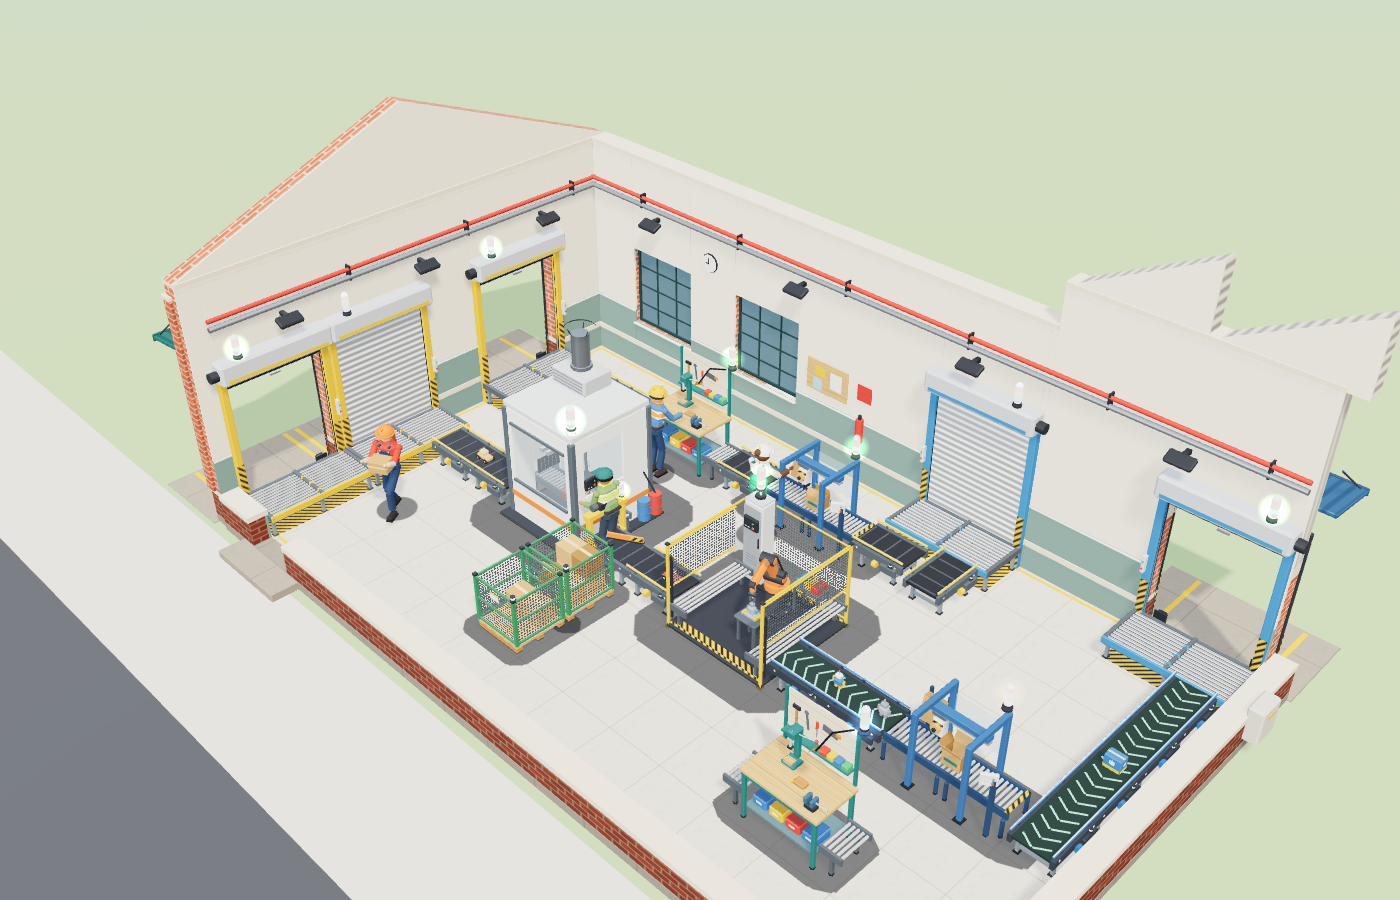
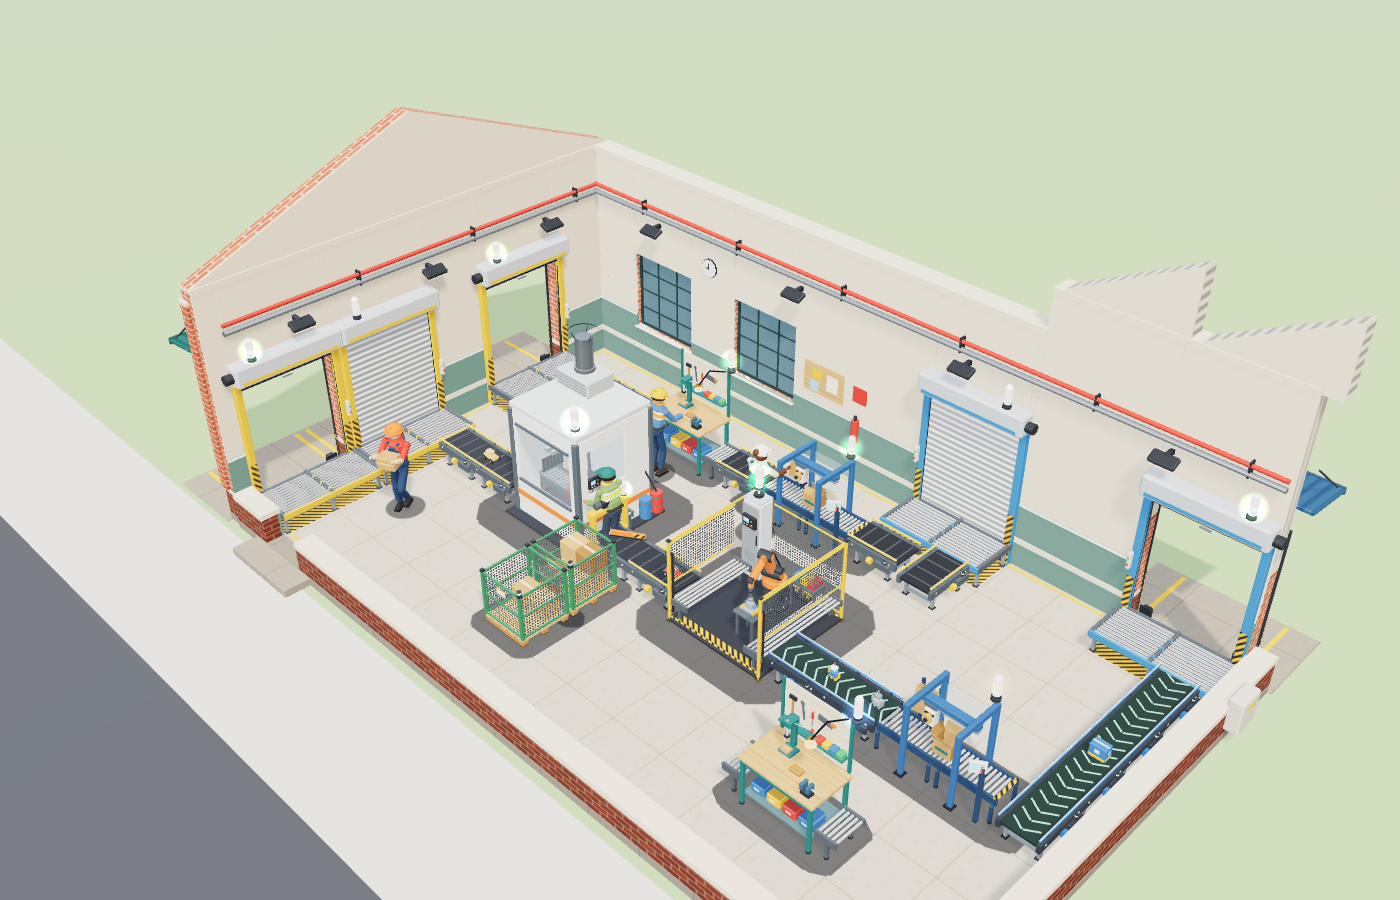
E2E evidence: phone-size (844x390) touch journey to first sale passes with 0 console errors
Claude-Session: https://claude.ai/code/session_01QUCVJJ8vSf1g5xenrdUj19

diff --git a/src/render/models/buildings/store.ts b/src/render/models/buildings/store.ts
@@ -20,8 +20,8 @@ const WALL = 0xf2b8a0; // coral plaster
 const TRIM = 0x2e7c78;
 const BOX = [PAL.yellow, PAL.red, PAL.blue, 0x3b2a6b];
 
-function shelfUnit(b: Builder, x: number, z: number, len: number, ry: number, double: boolean, seed: number): void {
-  b.push(x, 0, z, ry);
+function shelfUnit(b: Builder, x: number, z: number, len: number, ry: number, double: boolean, seed: number, y = 0): void {
+  b.push(x, y, z, ry);
   const d = double ? 0.6 : 0.4;
   b.span('satin', 0xf4f2ee, -len / 2, 0, -d / 2, len / 2, 0.12, d / 2, 0.01);
   b.span('satin', TRIM, -len / 2, 0.12, -0.03, len / 2, 1.65, 0.03, 0.006);
@@ -69,7 +69,7 @@ export function createToyStore(opts: ModelOptions = {}): ModelInstance {
   const doorU = -w / 2 + 1.5;
   const openings: Record<Side, Opening[]> = {
     S: [{ u: doorU, w: 1.2, y0: 0, y1: 2.4 }, { u: doorU + 0.9 + shopW / 2, w: shopW, y0: 0.45, y1: 2.55 }],
-    E: level >= 2 ? [{ u: h / 2 - 1.8, w: 2.4, y0: 0.45, y1: 2.55 }] : [{ u: 0, w: 1.4, y0: 1.0, y1: 2.4 }],
+    E: level >= 2 ? [{ u: -(h / 2 - 1.8), w: 2.4, y0: 0.45, y1: 2.55 }] : [{ u: 0, w: 1.4, y0: 1.0, y1: 2.4 }],
     N: [{ u: 0, w: 1.0, y0: 0, y1: 2.15 }],
     W: [],
   };
@@ -178,7 +178,8 @@ export function createToyStore(opts: ModelOptions = {}): ModelInstance {
   }
   // wall shelving along N and W
   shelfUnit(b, -w / 2 + 0.3, 0.6, Math.min(3.2, h - 2.4), Math.PI / 2, false, 7);
-  shelfUnit(b, w / 2 - 2.3, -h / 2 + 0.3, 3.0, Math.PI, false, 11);
+  const nLen = Math.min(3.0, w / 2 - 1.3);
+  shelfUnit(b, w / 2 - 0.2 - nLen / 2, -h / 2 + 0.3, nLen, 0, false, 11);
   checkout(b, w / 2 - 1.4, h / 2 - 1.6, Math.PI);
   if (level >= 2) checkout(b, w / 2 - 1.4, h / 2 - 3.0 + (level === 3 ? 0 : 0.2), Math.PI);
   // display window podiums with oversized toys (street side, behind the glass)
@@ -192,11 +193,12 @@ export function createToyStore(opts: ModelOptions = {}): ModelInstance {
   b.span('paint', 0x5a4a3a, doorU - 0.7, 0, h / 2 - 1.2, doorU + 0.7, 0.008, h / 2 - 0.05, 0);
   if (level === 3) {
     // play corner: rug + blocks + mini slide
-    b.span('paint', 0x93d6c3, -w / 2 + 0.4, 0, h / 2 - 2.6, -w / 2 + 2.6, 0.012, h / 2 - 0.4, 0);
+    const px = -1.6, pz = 1.2;
+    b.span('paint', 0x93d6c3, px, 0, pz, px + 2.6, 0.012, pz + 1.7, 0);
     const cols = [PAL.red, PAL.yellow, PAL.blue, PAL.green];
-    for (let i = 0; i < 6; i++) b.boxB('satin', cols[i % 4], 0.3, 0.3, 0.3, -w / 2 + 0.9 + (i % 3) * 0.4, (i > 2 ? 0.3 : 0) + 0.012, h / 2 - 1.2, 0.04);
-    b.boxB('satin', PAL.blue, 0.5, 0.9, 0.5, -w / 2 + 2.1, 0, h / 2 - 2.1, 0.06);
-    b.box('satin', PAL.yellow, 0.42, 0.05, 1.3, -w / 2 + 2.1, 0.5, h / 2 - 1.35, 0.02, { rx: 0.62 });
+    for (let i = 0; i < 6; i++) b.boxB('satin', cols[i % 4], 0.3, 0.3, 0.3, px + 0.5 + (i % 3) * 0.4, (i > 2 ? 0.3 : 0) + 0.012, pz + 0.5, 0.04);
+    b.boxB('satin', PAL.blue, 0.5, 0.9, 0.5, px + 2.05, 0.012, pz + 0.4, 0.06);
+    b.box('satin', PAL.yellow, 0.42, 0.05, 1.2, px + 2.05, 0.5, pz + 1.08, 0.02, { rx: 0.62 });
     // mezzanine along the north wall
     const fy = 3.4;
     b.span('concrete', 0xece6dc, -w / 2, fy - 0.2, -h / 2, w / 2, fy, -h / 2 + 2.2, 0);
@@ -204,7 +206,7 @@ export function createToyStore(opts: ModelOptions = {}): ModelInstance {
     b.box('glassClear', 0xffffff, w, 1.0, 0.02, 0, fy + 0.55, -h / 2 + 2.15, 0);
     b.box('metal', PAL.chrome, w, 0.05, 0.07, 0, fy + 1.06, -h / 2 + 2.15, 0.01);
     for (let x = -w / 2 + 1.0; x < w / 2; x += 2.5) b.rod('satin', TRIM, 0.04, [x, 2.3, -h / 2 + 0.02], [x, fy - 0.3, -h / 2 + 1.6], 6);
-    for (let i = 0; i < 3; i++) shelfUnit(b, -w / 2 + 2 + i * 3.6, -h / 2 + 0.6, 2.4, 0, false, 20 + i);
+    for (let i = 0; i < 3; i++) shelfUnit(b, -w / 2 + 2 + i * 3.6, -h / 2 + 0.45, 2.4, 0, false, 20 + i, fy);
     // rooftop sign
     const rs = signMat('toystoreRoof', { text: 'TOYS!', bg: '#d8453c', fg: '#ffffff', accent: '#f2bb2c', w: 512, h: 192, icon: 'robot', nightGlow: 1.3, dayGlow: 0.08 });
     roof.span('metal', PAL.steelDark, -2.2, H, -1.0, -2.1, H + 2.2, -0.9, 0);

diff --git a/src/render/models/machines/robot.ts b/src/render/models/machines/robot.ts
@@ -62,9 +62,9 @@ function buildArm(root: THREE.Object3D): ArmRig {
   turret.position.set(BASE.x, 0.5, BASE.z);
   root.add(turret);
   const tb = new Builder();
-  tb.cylB('satin', ARM, 0.2, 0.12, 0, 0, 0, 20);
+  tb.cylB('satin', ARM, 0.23, 0.13, 0, 0, 0, 20);
   tb.cylB('satin', JOINT, 0.21, 0.025, 0, 0.0, 0, 20);
-  tb.boxB('satin', ARM, 0.24, 0.22, 0.28, 0.02, 0.1, 0, 0.05);
+  tb.boxB('satin', ARM, 0.28, 0.24, 0.32, 0.02, 0.1, 0, 0.06);
   tb.cyl('satin', JOINT, 0.08, 0.06, -0.1, 0.2, 0, 'x', 12);
   turret.add(tb.build({ name: 'turret' }));
 
@@ -72,9 +72,9 @@ function buildArm(root: THREE.Object3D): ArmRig {
   shoulder.position.set(SHOULDER_OFF, SHOULDER_Y - 0.5, 0);
   turret.add(shoulder);
   const ub = new Builder();
-  ub.cyl('satin', JOINT, 0.11, 0.3, 0, 0, 0, 'z', 18);
-  ub.cyl('satin', ARM, 0.075, 0.32, 0, 0, 0, 'z', 14);
-  ub.box('satin', ARM, L1 + 0.04, 0.15, 0.17, L1 / 2, 0, 0, 0.045);
+  ub.cyl('satin', JOINT, 0.13, 0.34, 0, 0, 0, 'z', 18);
+  ub.cyl('satin', PAL.white, 0.085, 0.36, 0, 0, 0, 'z', 14);
+  ub.box('satin', ARM, L1 + 0.06, 0.2, 0.21, L1 / 2, 0, 0, 0.06);
   ub.box('satin', shade(ARM), L1 * 0.6, 0.1, 0.012, L1 / 2, 0, 0.09, 0.004);
   ub.cyl('satin', JOINT, 0.06, 0.12, L1 * 0.25, 0.0, -0.13, 'z', 12); // motor
   ub.rod('satin', 0x26282d, 0.018, [0.05, 0.1, -0.09], [L1 - 0.05, 0.09, -0.09], 6); // cable
@@ -84,10 +84,10 @@ function buildArm(root: THREE.Object3D): ArmRig {
   elbow.position.set(L1, 0, 0);
   shoulder.add(elbow);
   const fb = new Builder();
-  fb.cyl('satin', JOINT, 0.085, 0.22, 0, 0, 0, 'z', 16);
-  fb.cyl('satin', ARM, 0.06, 0.24, 0, 0, 0, 'z', 12);
-  fb.box('satin', ARM, L2, 0.11, 0.12, L2 / 2, 0, 0, 0.04);
-  fb.box('satin', shade(ARM), 0.18, 0.13, 0.135, 0.09, 0, 0, 0.04);
+  fb.cyl('satin', JOINT, 0.1, 0.26, 0, 0, 0, 'z', 16);
+  fb.cyl('satin', PAL.white, 0.07, 0.28, 0, 0, 0, 'z', 12);
+  fb.box('satin', ARM, L2, 0.14, 0.15, L2 / 2, 0, 0, 0.045);
+  fb.box('satin', shade(ARM), 0.2, 0.17, 0.17, 0.1, 0, 0, 0.05);
   fb.cyl('satin', JOINT, 0.055, 0.08, L2, 0, 0, 'z', 12);
   elbow.add(fb.build({ name: 'forearm' }));
 
@@ -155,7 +155,7 @@ export function createRobotAssembler(): ModelInstance {
   const body = cached('robot_assembler', () => {
     const b = new Builder();
     stackHousing(b, -0.72, 1.62, -0.8, 0.12, 1.25);
-    basePlate(b, 1.94, 1.94, 0.08);
+    basePlate(b, 1.94, 1.94, 0.08, 0x8d979f);
     // arm pedestal
     b.cylB('satin', 0x4a5059, 0.17, 0.42, BASE.x, 0.08, BASE.z, 16);
     b.cylB('satin', JOINT, 0.24, 0.05, BASE.x, 0.08, BASE.z, 16);
@@ -199,12 +199,12 @@ export function createRobotAssembler(): ModelInstance {
     b.box('satin', PAL.graphite, 0.5, 0.05, 0.08, -0.37, 0.105, -0.6, 0.01);
     // safety fence: corner posts, back + side panels (sides above trays)
     const F = 0.94;
-    for (const [x, z] of [[-F, -F], [F, -F], [-F, F], [F, F]] as [number, number][]) post(b, x, z, 1.55);
-    meshPanel(b, -0.52, -F, F - 0.03, -F, 0.12, 1.5);
-    meshPanel(b, -F, -0.5, -F, F - 0.03, 0.72, 1.5);
-    meshPanel(b, F, -F + 0.03, F, F - 0.03, 0.72, 1.5);
-    b.box('satin', PAL.yellow, 0.035, 0.035, 1.88, -F, 1.535, 0, 0.008);
-    b.box('satin', PAL.yellow, 0.035, 0.035, 1.88, F, 1.535, 0, 0.008);
+    for (const [x, z] of [[-F, -F], [F, -F], [-F, F], [F, F]] as [number, number][]) post(b, x, z, 1.36);
+    meshPanel(b, -0.52, -F, F - 0.03, -F, 0.12, 1.3);
+    meshPanel(b, -F, -0.5, -F, F - 0.03, 0.72, 1.3);
+    meshPanel(b, F, -F + 0.03, F, F - 0.03, 0.72, 1.3);
+    b.box('satin', PAL.yellow, 0.035, 0.035, 1.88, -F, 1.335, 0, 0.008);
+    b.box('satin', PAL.yellow, 0.035, 0.035, 1.88, F, 1.335, 0, 0.008);
     // front light curtain (open side, faces the camera): emitter + receiver strips
     for (const x of [-F, F]) {
       b.span('satin', PAL.graphite, x - 0.03, 0.15, F - 0.075, x + 0.03, 1.3, F - 0.045, 0.006);

diff --git a/src/render/models/buildings/workshop.ts b/src/render/models/buildings/workshop.ts
@@ -378,7 +378,7 @@ function sawRoof(c: Ctx, x0: number, x1: number, H: number, teeth: number, rise:
     for (const side of gableSides) {
       const f = sideFrame(side, c.w, c.h);
       const ua = f.u(a), ue = f.u(e);
-      const target = side === 'S' ? c.up.S : side === 'E' ? c.up.E : c.st;
+      const target = side === 'S' ? c.up.S : side === 'E' ? c.up.E : c.roof;
       gableTri(target, side, c, [[ua, H], [ue, H], [ue, H + rise]], false);
     }
   }
@@ -627,7 +627,19 @@ export function createWorkshop(opts: ModelOptions = {}): ModelInstance {
   wallLamp(c.up.E, h / 2 - 0.7, 2.6, T);
   c.up.E.pop();
 
-  if (level === 3) mascot(c, H3);
+  if (level === 3) {
+    mascot(c, H3);
+    // brand accent band under the parapet on all four faces
+    for (const side of ['S', 'E', 'N', 'W'] as Side[]) {
+      const f = sideFrame(side, w, h);
+      const bb = side === 'S' ? c.up.S : side === 'E' ? c.up.E : c.st;
+      const len = side === 'N' || side === 'S' ? w : h + 2 * T;
+      pushSide(bb, f);
+      bb.span('satin', PAL.teal, -len / 2, 6.55, T, len / 2, 6.85, T + 0.04, 0);
+      bb.span('satin', PAL.mint, -len / 2, 6.45, T, len / 2, 6.5, T + 0.03, 0);
+      bb.pop();
+    }
+  }
 
   const mezzU: [number, number] = [-w / 2 + 2.6 - 0.6, w / 2 + 0.6]; // N frame u = -x: mezzanine x∈[-w/2,-1.6] → u∈[1.6, w/2]
   const dressArgs: [number, number, { N?: [number, number]; W?: [number, number] }] =
@@ -712,7 +724,8 @@ function mezzanine(c: Ctx, H: number): void {
   b.box('glassClear', 0xffffff, x1 - x0, 1.0, 0.02, (x0 + x1) / 2, fy + 0.55, z1 - 0.05, 0);
   b.box('metal', PAL.chrome, x1 - x0, 0.05, 0.07, (x0 + x1) / 2, fy + 1.06, z1 - 0.05, 0.01);
   for (let x = x0 + 0.5; x <= x1; x += 1.4) b.span('metal', PAL.steel, x - 0.02, fy, z1 - 0.08, x + 0.02, fy + 1.04, z1 - 0.02, 0);
-  b.span('metal', PAL.steel, x1 - 0.04, fy, z0, x1, fy + 1.04, z1, 0);
+  b.box('glassClear', 0xffffff, 0.02, 1.0, z1 - z0, x1 - 0.02, fy + 0.55, (z0 + z1) / 2, 0);
+  b.box('metal', PAL.chrome, 0.07, 0.05, z1 - z0, x1 - 0.02, fy + 1.06, (z0 + z1) / 2, 0.01);
   // office box
   const ox1 = x0 + 6.2, oy = fy + 2.6;
   const oz1 = z1 - 0.35;
@@ -721,7 +734,8 @@ function mezzanine(c: Ctx, H: number): void {
   b.box('glassClear', 0xffffff, ox1 - x0, 2.6, 0.02, (x0 + ox1) / 2, fy + 1.3, oz1 - 0.03, 0);
   b.box('glassClear', 0xffffff, 0.02, 2.6, oz1 - z0, ox1, fy + 1.3, (z0 + oz1) / 2, 0);
   for (let x = x0 + 1.0; x < ox1; x += 1.05) b.span('satin', PAL.graphite, x - 0.025, fy, oz1 - 0.06, x + 0.025, oy, oz1, 0);
-  b.span('satin', PAL.graphite, ox1 - 0.03, fy, z0, ox1 + 0.03, oy, oz1, 0);
+  b.span('satin', PAL.graphite, ox1 - 0.03, fy, oz1 - 0.06, ox1 + 0.03, oy, oz1, 0);
+  b.span('satin', PAL.graphite, ox1 - 0.03, oy - 0.06, z0, ox1 + 0.03, oy, oz1, 0);
   b.span('satin', PAL.graphite, x0, fy + 1.05, oz1 - 0.06, ox1, fy + 1.1, oz1, 0);
   for (const z of [z0 + 0.6, z0 + 1.3]) b.span('satin', PAL.graphite, ox1 - 0.03, fy, z - 0.025, ox1 + 0.03, oy, z + 0.025, 0);
   b.box('lampCool', 0xffffff, 1.2, 0.02, 0.6, x0 + 1.6, oy - 0.012, (z0 + oz1) / 2, 0.004);
@@ -751,7 +765,7 @@ function mascot(c: Ctx, H: number): void {
   const { w, h } = c;
   const bx = -w / 2 - T / 2, bz = h / 2 - 0.8;
   const top = H + 0.45;
-  b.push(bx, top, bz, Math.PI / 4);
+  b.push(bx, top, bz, Math.PI / 4, 0, 0, 1.45);
   // frame
   for (const s of [-1, 1]) b.span('metal', PAL.steelDark, s * 0.7 - 0.05, 0, -0.05, s * 0.7 + 0.05, 1.0, 0.05, 0);
   b.span('metal', PAL.steelDark, -0.9, 0.95, -0.06, 0.9, 1.05, 0.06, 0);

diff --git a/tools/model-gallery/gallery.ts b/tools/model-gallery/gallery.ts
@@ -250,7 +250,7 @@ function setupWorkshop(level: number) {
     P.push(['mach_robot_assembler', 7, 3, 0, [2, 2], { progress: 0.58 }]);
     P.push(['mach_belt_mk2', 9, 4, 0, [1, 1]], ['mach_belt_mk2', 10, 4, 0, [1, 1]]);
     P.push(['mach_packing_station', 11, 4, 0, [2, 1], { status: 'starved', progress: 0.1 }]);
-    P.push(['mach_belt_mk2', 13, 4, 3, [1, 1]], ['mach_belt_mk2', 13, 3, 3, [1, 1]], ['mach_belt_mk2', 13, 2, 3, [1, 1]], ['mach_belt_mk2', 13, 1, 3, [1, 1]]);
+    P.push(['mach_belt_mk2_turn_l', 13, 4, 3, [1, 1]], ['mach_belt_mk2', 13, 3, 3, [1, 1]], ['mach_belt_mk2', 13, 2, 3, [1, 1]], ['mach_belt_mk2', 13, 1, 3, [1, 1]]);
     P.push(['mach_assembly_bench', 10, 6, 0, [2, 1], { status: 'no_worker' }]);
   } else {
     P.push(['mach_belt', 7, 4, 0, [1, 1], { status: 'blocked' }]);
@@ -340,7 +340,7 @@ function setupItems() {
       el.className = 'lbl';
       el.textContent = id;
       document.body.appendChild(el);
-      live.push({ inst: { root: m }, state: { status: 'idle', progress: 0, time: 0, night }, labelEl: el, anchor: m.position.clone().add(new THREE.Vector3(0, -0.02, 0.2)), phase: 0 });
+      live.push({ inst: { root: m }, state: { status: 'idle', progress: 0, time: 0, night }, labelEl: el, anchor: m.position.clone().add(new THREE.Vector3(0.12, 0, 0.16)), phase: 0 });
     }
   });
   focus.set(1.25, 0.1, 0.55);

diff --git a/src/render/models/materials.ts b/src/render/models/materials.ts
@@ -486,7 +486,7 @@ export function setNightLevel(n: number): void {
   const lamp = mats.get('lamp') as THREE.MeshStandardMaterial | undefined;
   if (lamp) lamp.emissiveIntensity = 0.45 + 2.2 * k;
   const pool = mats.get('lightPool') as THREE.MeshBasicMaterial | undefined;
-  if (pool) pool.opacity = 0.55 * k;
+  if (pool) pool.opacity = 0.4 * k;
   for (const [key, m] of mats) if (key.startsWith('sign:')) (m as THREE.MeshStandardMaterial).emissiveIntensity = (m.userData.dayGlow ?? 0) + (m.userData.nightGlow ?? 1.2) * k;
 }
 
